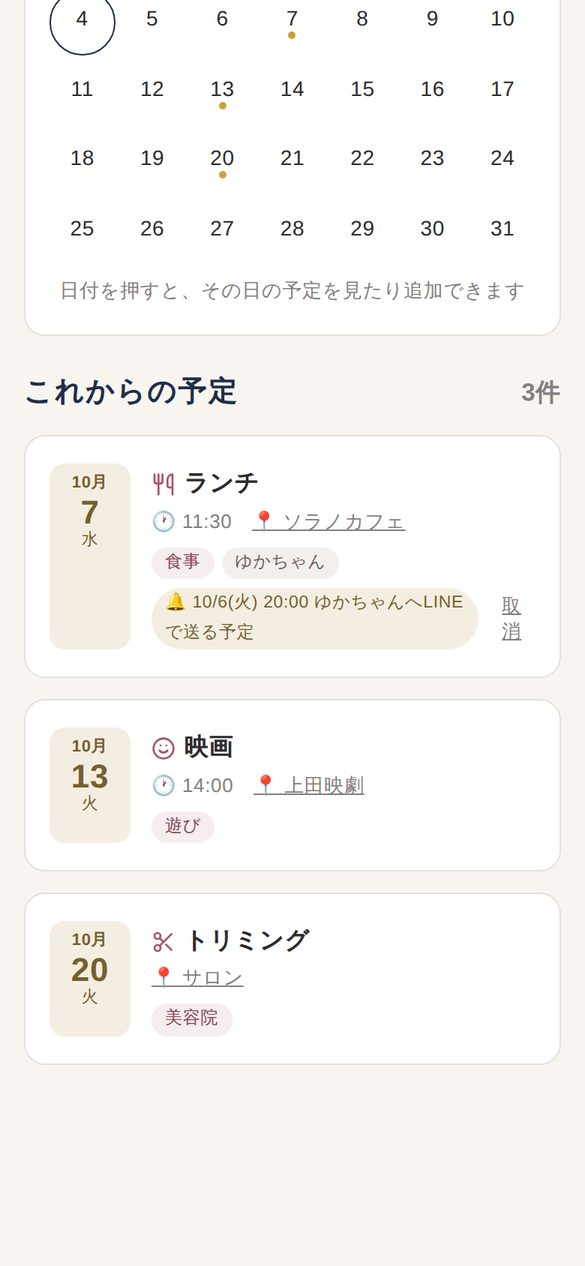
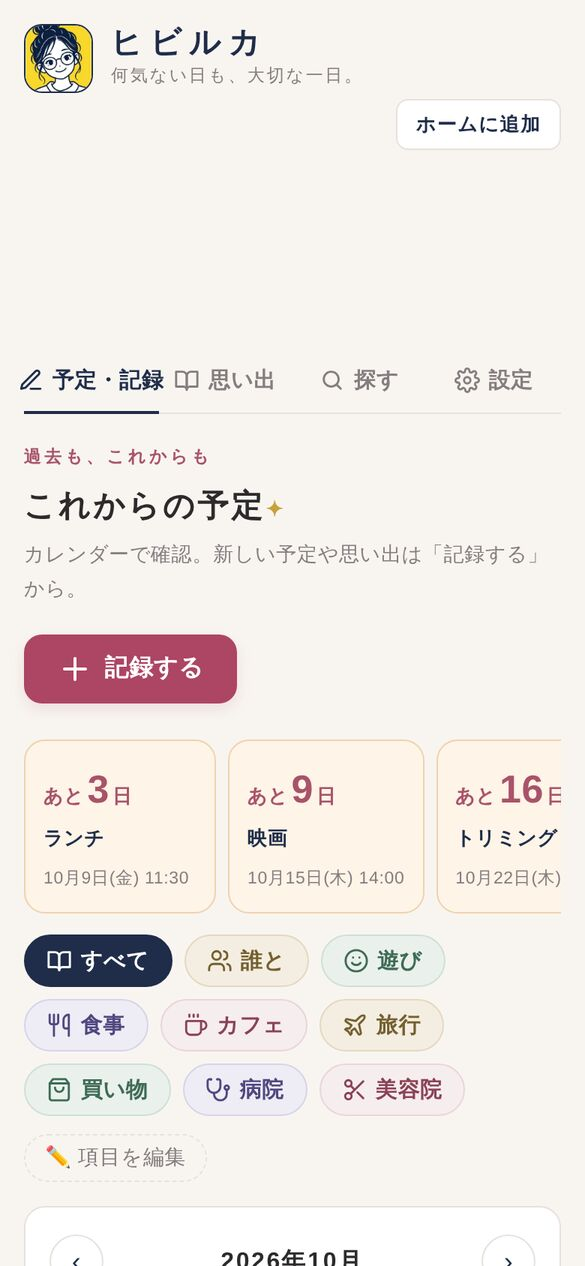
使い方ガイドを新しく：探す・行きたいリスト・おでかけコース・お得・イベント・思い出マップ・あと◯日・直す・アプリ通知・LINEの今日/また行きたい/ふりかえり（画像つき）
Claude-Session: https://claude.ai/code/session_0147pQxjXuJkSJfcwspEnXLT

diff --git a/guide/index.html b/guide/index.html
@@ -64,6 +64,7 @@
   .btnlike { display: inline-block; font-weight: 700; color: var(--navy); background: #fff; border: 1px solid var(--line); border-radius: 8px; padding: 0 7px; font-size: .92em; white-space: nowrap; }
   .btnlike.green { background: var(--green); color: #fff; border-color: var(--green); }
   .btnlike.navy { background: var(--navy); color: #fff; border-color: var(--navy); }
+  .btnlike.rose { background: var(--rose); color: #fff; border-color: var(--rose); }
 
   /* スマホの画面 */
   .phones { display: flex; gap: 12px; justify-content: center; flex-wrap: wrap; }
@@ -84,6 +85,13 @@
   .map .pic { height: 86px; background: linear-gradient(135deg,#dfe9d8 0 30%,#cfe0f2 30% 34%,#dfe9d8 34% 64%,#f3e1b8 64% 67%,#dfe9d8 67%); position: relative; }
   .map .pic::after { content: "📍"; position: absolute; left: 50%; top: 50%; transform: translate(-50%,-60%); font-size: 26px; }
   .map .addr { padding: 6px 10px; font-size: 12px; background: #fdf6c9; }
+  .cards { display: flex; gap: 6px; overflow: hidden; }
+  .lcard { flex: 0 0 150px; background: #fff; border-radius: 12px; overflow: hidden; display: flex; flex-direction: column; gap: 3px; padding-bottom: 8px; font-size: 11.5px; }
+  .lcard .pic { height: 60px; background: linear-gradient(135deg, #f3d9b4, #e9b77f); }
+  .lcard .pic.p2 { background: linear-gradient(135deg, #d6ead1, #a9cfa0); }
+  .lcard small, .lcard b { padding: 0 8px; } .lcard small { color: #ad4564; font-weight: 700; } .lcard b { color: #1f2d4a; }
+  .lcard span { margin: 2px 8px 0; background: #1f2d4a; color: #fff; border-radius: 6px; text-align: center; padding: 3px 0; font-weight: 700; }
+  .lcard span.sub { background: #eef0f4; color: #1f2d4a; }
   .qr { display: flex; flex-wrap: wrap; gap: 5px; margin-top: 6px; }
   .qr span { background: #fff; border: 1px solid #c9d6ea; color: #2a64c5; border-radius: 999px; padding: 2px 9px; font-size: 12px; font-weight: 700; }
 
@@ -117,7 +125,7 @@
     <p class="lead">ヒビルカは、これからの予定と、行ってきた思い出を一緒に残せるアプリです。大切な人には、LINEで予定を届けられます。</p>
     <ul class="points">
       <li><span>🗓</span>予定を入れて<br>LINEで届ける</li>
-      <li><span>📷</span>写真を入れると<br>日付と場所も</li>
+      <li><span>🔍</span>行きたい場所を<br>天気と一緒に探す</li>
       <li><span>✨</span>AIが思い出の<br>文章を作る</li>
     </ul>
     <ul class="toc" aria-label="もくじ">
@@ -129,6 +137,10 @@
       <li><a href="#line-record">LINEから記録</a></li>
       <li><a href="#look">見返す</a></li>
       <li><a href="#sns">SNSに投稿</a></li>
+      <li><a href="#find">スポットを探す</a></li>
+      <li><a href="#wish">行きたい・コース</a></li>
+      <li><a href="#deals">お得・イベント</a></li>
+      <li><a href="#notify">アプリの通知</a></li>
       <li><a href="#faq">よくある質問</a></li>
     </ul>
   </div>
@@ -171,7 +183,16 @@
         <p>最後に <span class="btnlike navy">予定を保存する</span> を押せば完成です。</p>
         <div class="tip"><b>ポイント</b>　「どこで？」を入れると、Googleマップやカレンダーにすぐ飛べるボタンが付きます。</div>
       </div>
-      <div class="phones"><figure class="phone"><div class="frame"><img src="img/02-plans.jpg" alt="これからの予定の一覧" loading="lazy"></div><figcaption>これからの予定</figcaption></figure></div>
+      <div class="phones"><figure class="phone"><div class="frame"><img src="img/02-plans.jpg" alt="これからの予定とカウントダウン" loading="lazy"></div><figcaption>「あと◯日」も出ます</figcaption></figure></div>
+    </div>
+    <div class="step with-shot left">
+      <div>
+        <h3><span class="n">3</span>楽しみな予定は「あと◯日」</h3>
+        <p>60日以内の予定は、いちばん上に <b>今日！・明日！・あと3日</b> のように近い順に3つ並びます。押すとその予定が開きます。</p>
+        <h3><span class="n">4</span>直したいときは「✏ 直す」</h3>
+        <p>予定のカードの下にある <span class="btnlike">✏ 直す</span> を押すと、すぐに直す画面が開きます。<span class="btnlike">くわしく・送る</span> からは、LINEで送る・消すなどができます。</p>
+      </div>
+      <div class="phones"><figure class="phone"><div class="frame"><img src="img/22-plan-cards.jpg" alt="直すボタンのある予定のカード" loading="lazy"></div><figcaption>カードの「✏ 直す」</figcaption></figure></div>
     </div>
   </section>
 
@@ -195,6 +216,11 @@
           <li><b>いつ送る？</b>「前の日の朝 9:00」「当日の朝 7:00」「予定の1時間前」など。日付と時間を自由に決めることもできます</li>
         </ul>
         <p><span class="btnlike">この日時に送る</span> で予約完了。その時間になると、ヒビルカのLINEから相手に届きます。</p>
+        <ul>
+          <li><b>💬 ひとこと</b>　「楽しみにしてるね！」のような一言を添えられます（100文字まで）</li>
+          <li><b>📱 アプリ通知</b>　自分あてなら、LINEではなくスマホに直接届けることもできます（<a href="#notify">12章</a>）</li>
+        </ul>
+        <div class="tip"><b>無料で続けるために</b>　LINEのお知らせは、1人あたり月30通までです（1人に送ると1通）。送る画面に「今月あと◯通」と出ます。アプリ通知は数えません。</div>
       </div>
       <div class="phones two">
         <figure class="phone"><div class="frame"><img src="img/12-plan-detail.jpg" alt="予定の詳細画面" loading="lazy"></div><figcaption>予定を開いたところ</figcaption></figure>
@@ -272,9 +298,9 @@
         <div class="tip"><b>ポイント</b>　まちがえたときは、返事の下の「取り消す」を押せば消えます。</div>
         <h3 style="margin-top:14px"><span class="n">4</span>下のメニューから</h3>
         <ul>
-          <li><b>今日</b> → 今日の予定と記録</li>
-          <li><b>また行きたい</b> → ♥を付けた場所</li>
-          <li><b>ふりかえり</b> → 今月の思い出をAIがまとめて返事</li>
+          <li><b>今日</b> → 今日の予定と記録、<b>これからの予定（明日・あと◯日）</b></li>
+          <li><b>また行きたい</b> → 行きたいリストと♥の場所が、写真つきのカードで。「地図で見る」「アプリで予定にする」ボタン付き</li>
+          <li><b>ふりかえり</b> → 今月の思い出をAIがまとめて返事。<b>「先月」「8月のふりかえり」「2025年12月」</b>のように前の月も。返事の下のボタンでさらに前の月へ</li>
           <li><b>友だちに紹介</b> → ヒビルカのLINEを友だちに送れる</li>
         </ul>
       </div>
@@ -286,6 +312,10 @@
             <div class="qr"><span>遊び</span><span>食事</span><span>カフェ</span><span>旅行</span></div></div></div>
           <div class="msg me"><div class="bubble">遊び</div></div>
           <div class="msg"><div class="bubble">「遊び」で記録しました。</div></div>
+          <div class="msg me"><div class="bubble">今日</div></div>
+          <div class="msg"><div class="bubble">📅 今日の予定・記録<br>10:05 上田城跡公園<br><br>🎉 これからの予定<br>明日｜10月7日(水) 歯医者<br>あと3日｜10月9日(金) ランチ</div></div>
+          <div class="msg me"><div class="bubble">また行きたい</div></div>
+          <div class="msg"><div class="cards"><div class="lcard"><div class="pic"></div><small>📌 行きたいリスト</small><b>森のごはん屋</b><span>🗺 地図で見る</span><span class="sub">📅 アプリで予定にする</span></div><div class="lcard"><div class="pic p2"></div><small>♥ また行きたい</small><b>わんこカフェ</b><span>🗺 地図で見る</span><span class="sub">📅 アプリで予定にする</span></div></div></div>
         </div>
       </div>
     </div>
@@ -306,8 +336,17 @@
       <div>
         <h3><span class="n">2</span>AIでひと月をふりかえる</h3>
         <p>思い出のページのいちばん上にある <span class="btnlike navy">今月</span> <span class="btnlike">先月</span> を押すと、その月の思い出をAIがまとめてくれます。<span class="btnlike">コピー</span> で日記やSNSにも使えます。</p>
+        <p><b>ほかの月をふりかえる</b> から、思い出のある前の月（去年の夏など）も選べます。</p>
       </div>
       <div class="phones"><figure class="phone"><div class="frame"><img src="img/07-month.jpg" alt="AIのふりかえり" loading="lazy"></div><figcaption>ひと月のふりかえり</figcaption></figure></div>
+    </div>
+    <div class="step with-shot left">
+      <div>
+        <h3><span class="n">3</span>思い出マップ 🗺</h3>
+        <p>思い出のページの <span class="btnlike">思い出マップ</span> を押すと、今までの思い出が地図にピンで並びます。ピンを押すと写真と題名が出て、<span class="btnlike">開く</span> でその記録へ。</p>
+        <div class="tip"><b>ポイント</b>　位置情報のある写真を入れたり、LINEで位置情報を送ったりした思い出が地図に出ます。</div>
+      </div>
+      <div class="phones"><figure class="phone"><div class="frame"><img src="img/25-memory-map.jpg" alt="思い出マップ" loading="lazy"></div><figcaption>思い出マップ</figcaption></figure></div>
     </div>
   </section>
 
@@ -335,9 +374,119 @@
   </section>
 
   <!-- 9 -->
+  <!-- 9 -->
+  <section class="chapter" id="find">
+    <div class="chap-head"><div class="chap-no">9</div><h2>スポットを探す 🔍</h2></div>
+    <p class="chap-lead">「探す」のページで、行く場所と日を決めると、その日の天気に合わせてごはん屋さんやおでかけ先を探せます。</p>
+    <div class="step with-shot">
+      <div>
+        <h3><span class="n">1</span>どこに行く？ いつ行く？</h3>
+        <ul>
+          <li><b>📍 今いる場所</b>　今いるあたりで探す</li>
+          <li><b>🗾 県・市町村で選ぶ</b>　「埼玉県」だけでも、「長野県 松本市」のように市町村まででも</li>
+          <li><b>🗺 場所を指定</b>　「軽井沢駅」「松本城」のように名前で</li>
+        </ul>
+        <p>行く日は <b>今日・明日・今度の土曜・日曜</b> か、6日先までの日にちから選びます。</p>
+        <h3><span class="n">2</span>その日の天気とおすすめ</h3>
+        <p>選んだ場所・日の天気（気象庁の予報）が出て、雨なら屋内や温泉、晴れなら公園や道の駅、のようにおすすめが並びます。</p>
+        <h3><span class="n">3</span>行き方を調べる 🚃🚗</h3>
+        <p>「到着」に場所を入れて <span class="btnlike navy">🚃 電車で</span> <span class="btnlike">🚗 車で</span> を押すと、Googleマップで時間・乗りかえ・到着時刻がわかります。</p>
+      </div>
+      <div class="phones"><figure class="phone"><div class="frame"><img src="img/16-find-where.jpg" alt="どこに行く・いつ行く・天気" loading="lazy"></div><figcaption>行く場所・日・天気</figcaption></figure></div>
+    </div>
+    <div class="step with-shot left">
+      <div>
+        <h3><span class="n">4</span>何を探す？</h3>
+        <p>カフェ・ランチ・ラーメンなどのボタンを押すとすぐ探します。下の <b>お店の条件</b> で範囲（1km・3km・市内まるごと）、駐車場あり・個室・<b>🚬 喫煙OK</b>・クーポンあり、予算も選べます。</p>
+        <p>お出かけは、公園・屋内（雨の日）・温泉・道の駅・ドッグラン・<b>🚬 喫煙所</b>。</p>
+        <h3><span class="n">5</span>キーワード検索</h3>
+        <p>複数の単語をスペースで並べると、両方を含む結果を探しやすくなります（例：<b>上田駅 ランチ</b>）。</p>
+        <ul>
+          <li><b>OR</b>　どれか（例：そば OR うどん）</li>
+          <li><b>-（マイナス）</b>　その言葉を除く（例：カフェ -チェーン）</li>
+        </ul>
+      </div>
+      <div class="phones two"><figure class="phone"><div class="frame"><img src="img/17-find-what.jpg" alt="何を探すのボタンとお店の条件" loading="lazy"></div><figcaption>何を探す？</figcaption></figure><figure class="phone"><div class="frame"><img src="img/18-find-results.jpg" alt="探した結果" loading="lazy"></div><figcaption>その日の天気も出ます</figcaption></figure></div>
+    </div>
+  </section>
+
+  <!-- 10 -->
+  <section class="chapter" id="wish">
+    <div class="chap-head"><div class="chap-no">10</div><h2>行きたいリスト・また行きたい・おでかけコース</h2></div>
+    <p class="chap-lead">「行ってみたい」を集めておいて、行く日が決まったら1日のコースにできます。</p>
+    <div class="step with-shot">
+      <div>
+        <h3><span class="n">1</span>📌 行きたいリストに入れる</h3>
+        <p>探した場所の <span class="btnlike rose">📌 ここ行きたい！</span> を押すと、「探す」ページの下の <b>行きたいリスト</b> に入ります。予定に入れると「予定あり」、その日が過ぎると「行った」になり、<span class="btnlike">📝 思い出を残す</span> がすぐ押せます。</p>
+        <h3><span class="n">2</span>♥ また行きたい</h3>
+        <p>行ってよかった思い出には ♥ を。思い出のページの「また行きたい」に集まります。</p>
+        <div class="tip"><b>LINEでも</b>　LINEで「<b>また行きたい</b>」と送ると、行きたいリストと♥の場所が写真つきのカードで届きます。地図もすぐ開けます。</div>
+      </div>
+      <div class="phones"><figure class="phone"><div class="frame"><img src="img/19-wishlist.jpg" alt="行きたいリスト" loading="lazy"></div><figcaption>行きたいリスト</figcaption></figure></div>
+    </div>
+    <div class="step with-shot left">
+      <div>
+        <h3><span class="n">3</span>🧭 おでかけコースを作る</h3>
+        <ol>
+          <li>行きたい場所の <span class="btnlike">🧭 コースに入れる</span> を押す（行きたいリストからもOK）</li>
+          <li>「探す」の上の方の <span class="btnlike navy">🧭 コースを見る・作る</span> か、画面の下の「コース ◯か所 ▶ ひらく」を押す</li>
+          <li>↑↓で順番を入れ替え、時間を入れる。<span class="btnlike">📏 近い順に並べる</span> や <span class="btnlike">✨ AIに順番と時間を考えてもらう</span> も</li>
+          <li><span class="btnlike navy">📅 予定にまとめて入れる</span> で、全部の場所が時間つきの予定になります</li>
+        </ol>
+        <p>場所と場所の間には、車でかかる時間の目安と、電車・車の行き方のボタンが出ます。</p>
+      </div>
+      <div class="phones"><figure class="phone"><div class="frame"><img src="img/20-course.jpg" alt="おでかけコース" loading="lazy"></div><figcaption>AIが時間を入れたコース</figcaption></figure></div>
+    </div>
+  </section>
+
+  <!-- 11 -->
+  <section class="chapter" id="deals">
+    <div class="chap-head"><div class="chap-no">11</div><h2>お得・イベント・ご当地グルメ</h2></div>
+    <p class="chap-lead">行く場所に合わせて、クーポンやイベント、名物やお土産も探せます。</p>
+    <div class="step with-shot">
+      <div>
+        <h3><span class="n">1</span>🎟 クーポン</h3>
+        <ul>
+          <li><b>クーポンのあるお店を探す</b>　ホットペッパーのクーポンが使えるお店。カードの <span class="btnlike">🎟 クーポンを見る</span> から</li>
+          <li><b>地元のお店のクーポン</b>　画面をお店の人に見せるだけ。今の日時が秒まで動いて出るので、その場で開いた画面だとわかります</li>
+        </ul>
+      </div>
+      <div class="phones two"><figure class="phone"><div class="frame"><img src="img/21-coupons.jpg" alt="お得・クーポン" loading="lazy"></div><figcaption>お得・クーポン</figcaption></figure><figure class="phone"><div class="frame"><img src="img/24-coupon-ticket.jpg" alt="見せるだけクーポン" loading="lazy"></div><figcaption>見せるだけクーポン</figcaption></figure></div>
+    </div>
+    <div class="step with-shot left">
+      <div>
+        <h3><span class="n">2</span>🎪 イベント</h3>
+        <p>行く場所の「今日のイベント」「◯月のイベント」をすぐ調べられます。イベント名のキーワードでも探せます（例：上田 花火）。</p>
+        <h3><span class="n">3</span>🍜 ご当地グルメ・お土産</h3>
+        <p>行く場所の名物を調べたり、名物が食べられるお店を探したり。お取り寄せ・お土産・ふるさと納税は楽天市場で見られます。</p>
+        <div class="tip"><b>PRについて</b>　「PR」が付いたボタンは、楽天などの広告（アフィリエイト）のリンクです。ヒビルカを無料で続けるために使っています。</div>
+      </div>
+      <div class="phones"><figure class="phone"><div class="frame"><img src="img/23-events.jpg" alt="イベントとご当地グルメ" loading="lazy"></div><figcaption>イベント・ご当地グルメ</figcaption></figure></div>
+    </div>
+  </section>
+
+  <!-- 12 -->
+  <section class="chapter" id="notify">
+    <div class="chap-head"><div class="chap-no">12</div><h2>アプリの通知 📱</h2></div>
+    <p class="chap-lead">自分あての予定のお知らせを、LINEではなくスマホに直接届けます。</p>
+    <div class="step with-shot left">
+      <div>
+        <h3><span class="n">1</span>この端末で受け取る</h3>
+        <p>「設定」→「📱 この端末に通知」の <span class="btnlike navy">この端末で通知を受け取る</span> を押して、通知を「許可」します。<span class="btnlike">テスト通知を送る</span> で届くか確かめられます。</p>
+        <div class="tip"><b>iPhoneの人</b>　ヒビルカを「ホーム画面に追加」して、ホーム画面のアイコンから開いたときに使えます（iOS 16.4以降）。</div>
+        <h3><span class="n">2</span>予定を送るときに選ぶ</h3>
+        <p>予定の「LINEで予定を送る」で <b>📱 アプリ通知</b> を選ぶと、予約した時間にスマホへ届きます。LINEの月30通には数えません。</p>
+      </div>
+      <div class="phones"><figure class="phone"><div class="frame"><img src="img/26-notify.jpg" alt="この端末に通知" loading="lazy"></div><figcaption>設定の「この端末に通知」</figcaption></figure></div>
+    </div>
+  </section>
+
   <section class="chapter" id="faq">
     <div class="chap-head"><div class="chap-no">?</div><h2>よくある質問</h2></div>
     <details><summary>お金はかかりますか？</summary><p>かかりません。AIの文章作成も無料です（1人1日20回まで）。</p></details>
+    <details><summary>LINEのお知らせは何通でも送れますか？</summary><p>無料で続けるため、1人あたり月30通までです（1人に送ると1通）。自分あてなら「📱 アプリ通知」を使うと数えません。</p></details>
+    <details><summary>天気はどこまで先がわかりますか？</summary><p>気象庁の予報なので、今日から6日先までです。日本の中の場所だけです。</p></details>
+    <details><summary>「PR」が付いているのは何ですか？</summary><p>楽天などの広告（アフィリエイト）のリンクです。押して買い物や予約をすると、ヒビルカの運営に少しだけ報酬が入ります。値段は変わりません。</p></details>
     <details><summary>自分の記録は、ほかの人に見えますか？</summary><p>見えません。記録はあなた専用です。LINEで届けた予定だけが、選んだ相手に届きます。</p></details>
     <details><summary>LINEで届けたら、相手の通知はうるさくない？</summary><p>選んだ日時に1回届くだけです。届けたくない人は選ばなければ送られません。</p></details>
     <details><summary>機種を変えたら記録はどうなりますか？</summary><p>「設定」→「<b>機種変更・別の端末でも使う</b>」でメールアドレスとパスワードを登録しておくと、新しいスマホでもログインして同じ記録を見られます。</p></details>
